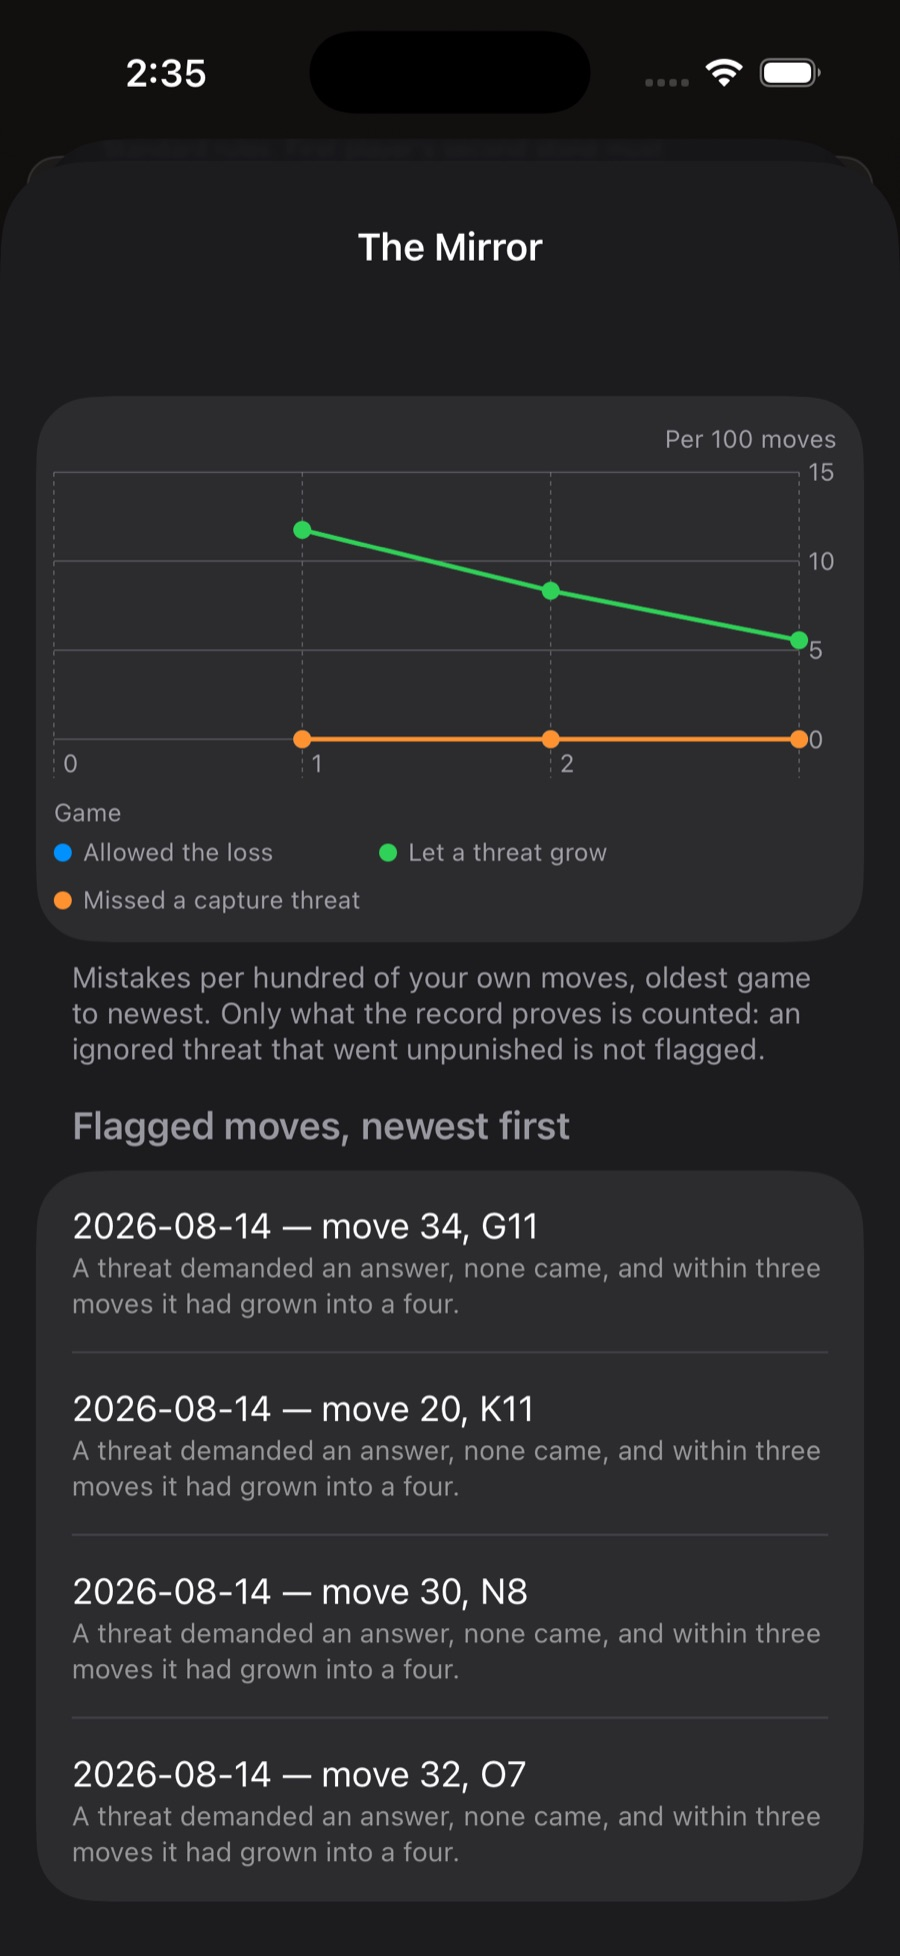
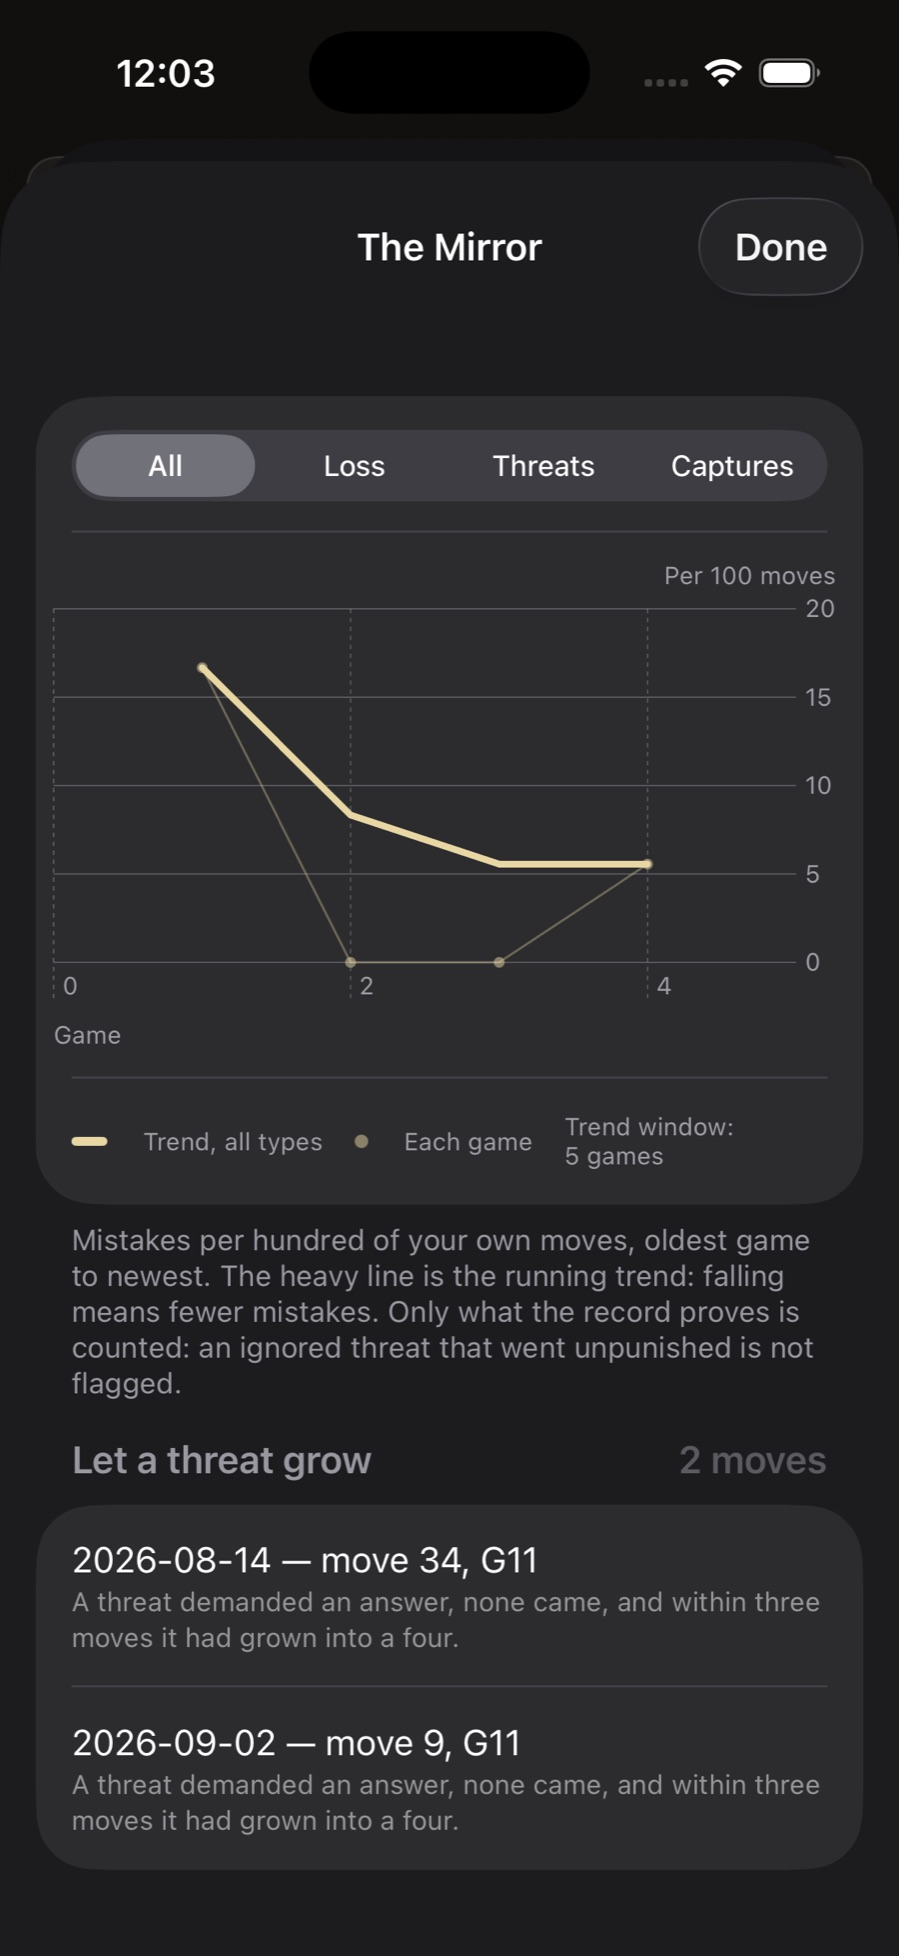
Manual: the Mirror section explains the categories and the reworked chart
The two threat categories now spell out their difference (same sin,
different verified consequence; no move counted twice; the worse
label wins) plus the pardoned-execution wrinkle. The section
describes the type picker, the running trend, and the grouped
collections, with a fresh screenshot of the reworked screen.

diff --git a/manual.html b/manual.html
@@ -186,16 +186,18 @@
 
   <h2 id="mirror">The Mirror</h2>
   <figure>
-    <img src="screenshots/manual-mirror.jpg" alt="The Mirror: a line chart of mistake rates per hundred moves across games, a legend of three categories, and a list of flagged moves with explanations" loading="lazy">
-    <figcaption>Three kinds of mistake, charted oldest game to newest — this one is fading.</figcaption>
+    <img src="screenshots/manual-mirror.jpg?v=2" alt="The Mirror: a picker for mistake type over a chart with a heavy trend line, and flagged moves gathered into groups by type" loading="lazy">
+    <figcaption>One story at a time: the heavy line is the trend, and falling means fewer mistakes.</figcaption>
   </figure>
-  <p>The Mirror reads back through every finished game against the AI on your device and charts the mistakes you repeat, as a rate per hundred of your own moves, oldest game to newest — so you can see whether they're fading as you improve. It counts exactly three things, and all of them are facts the record proves, never an engine's opinion:</p>
+  <p>The Mirror reads back through every finished game against the AI in your archive and charts the mistakes you repeat, as a rate per hundred of your own moves, oldest game to newest. The chart tells one story at a time: <strong>All</strong> shows your combined rate, or pick a single mistake type to isolate it. Each game is a faint spike; the heavy line is the running trend, averaged over recent games, and that line falling is the answer to "am I getting better?"</p>
+  <p>It counts exactly three things, and all of them are facts the record proves, never an engine's opinion:</p>
   <ul>
-    <li><strong>Allowed the loss.</strong> A threat demanded an answer, none came, and the opponent won on the very next move.</li>
-    <li><strong>Let a threat grow.</strong> A threat demanded an answer, none came, and within three moves it had grown into a four.</li>
+    <li><strong>Allowed the loss.</strong> A threat demanded an answer, your move was not one, and the opponent won on the very next move. The ignored threat was already lethal.</li>
+    <li><strong>Let a threat grow.</strong> The same sin with a slower bill: a threat demanded an answer, your move was not one, and although the opponent did not win at once, within the next three moves the ignored threat had matured into a four — or won after all.</li>
     <li><strong>Missed a capture threat.</strong> A capture threat against the opponent's shapes was there for the taking, went unplayed, and was gone a move later.</li>
   </ul>
-  <p>A threat you ignored that the opponent never punished is deliberately <em>not</em> counted. And every flagged move opens in the walk-back at that exact position, ring on the move, so you can judge the claim on the board yourself. The analysis runs entirely on your device and is cached, so the Mirror opens instantly after the first look.</p>
+  <p>The first two categories begin identically — an unanswered demand — and differ only in the verified consequence. No move is ever counted twice: if the opponent won immediately it is Allowed the loss, and only otherwise can it be Let a threat grow, so the worse label always wins. One honest wrinkle: if you ignored a killing threat and the opponent <em>missed</em> the kill, then landed it a move or two later, that files under Let a threat grow — the immediate-loss label is strict about "very next move."</p>
+  <p>A threat you ignored that the opponent never punished at all is deliberately <em>not</em> counted — the Mirror only claims what the record can prove, because one wrong flag would cost it your trust. Below the chart, the flagged moves are gathered into collections by type, counts in the headers, so you can study all your similar problems together; tapping a header focuses the chart on that type, and tapping any move opens the walk-back at that exact position, ring on the move, so you can judge the claim on the board yourself. The analysis runs entirely on your device and is cached, so the Mirror opens instantly after the first look.</p>
 
   <h2 id="zoom">Zoom and pan on the phone</h2>
   <p>Nineteen lines each way is a lot of board for a hand's width of glass. On iPhone and iPad, pinch to zoom into the part of the board where the fight is happening — stones become comfortably tappable — then drag with one finger to follow the action. Placing stones works the same while zoomed, and the fit button in the corner returns the whole board in one tap. Most players zoom in early and stay there. The Practice Board zooms the same way.</p>
